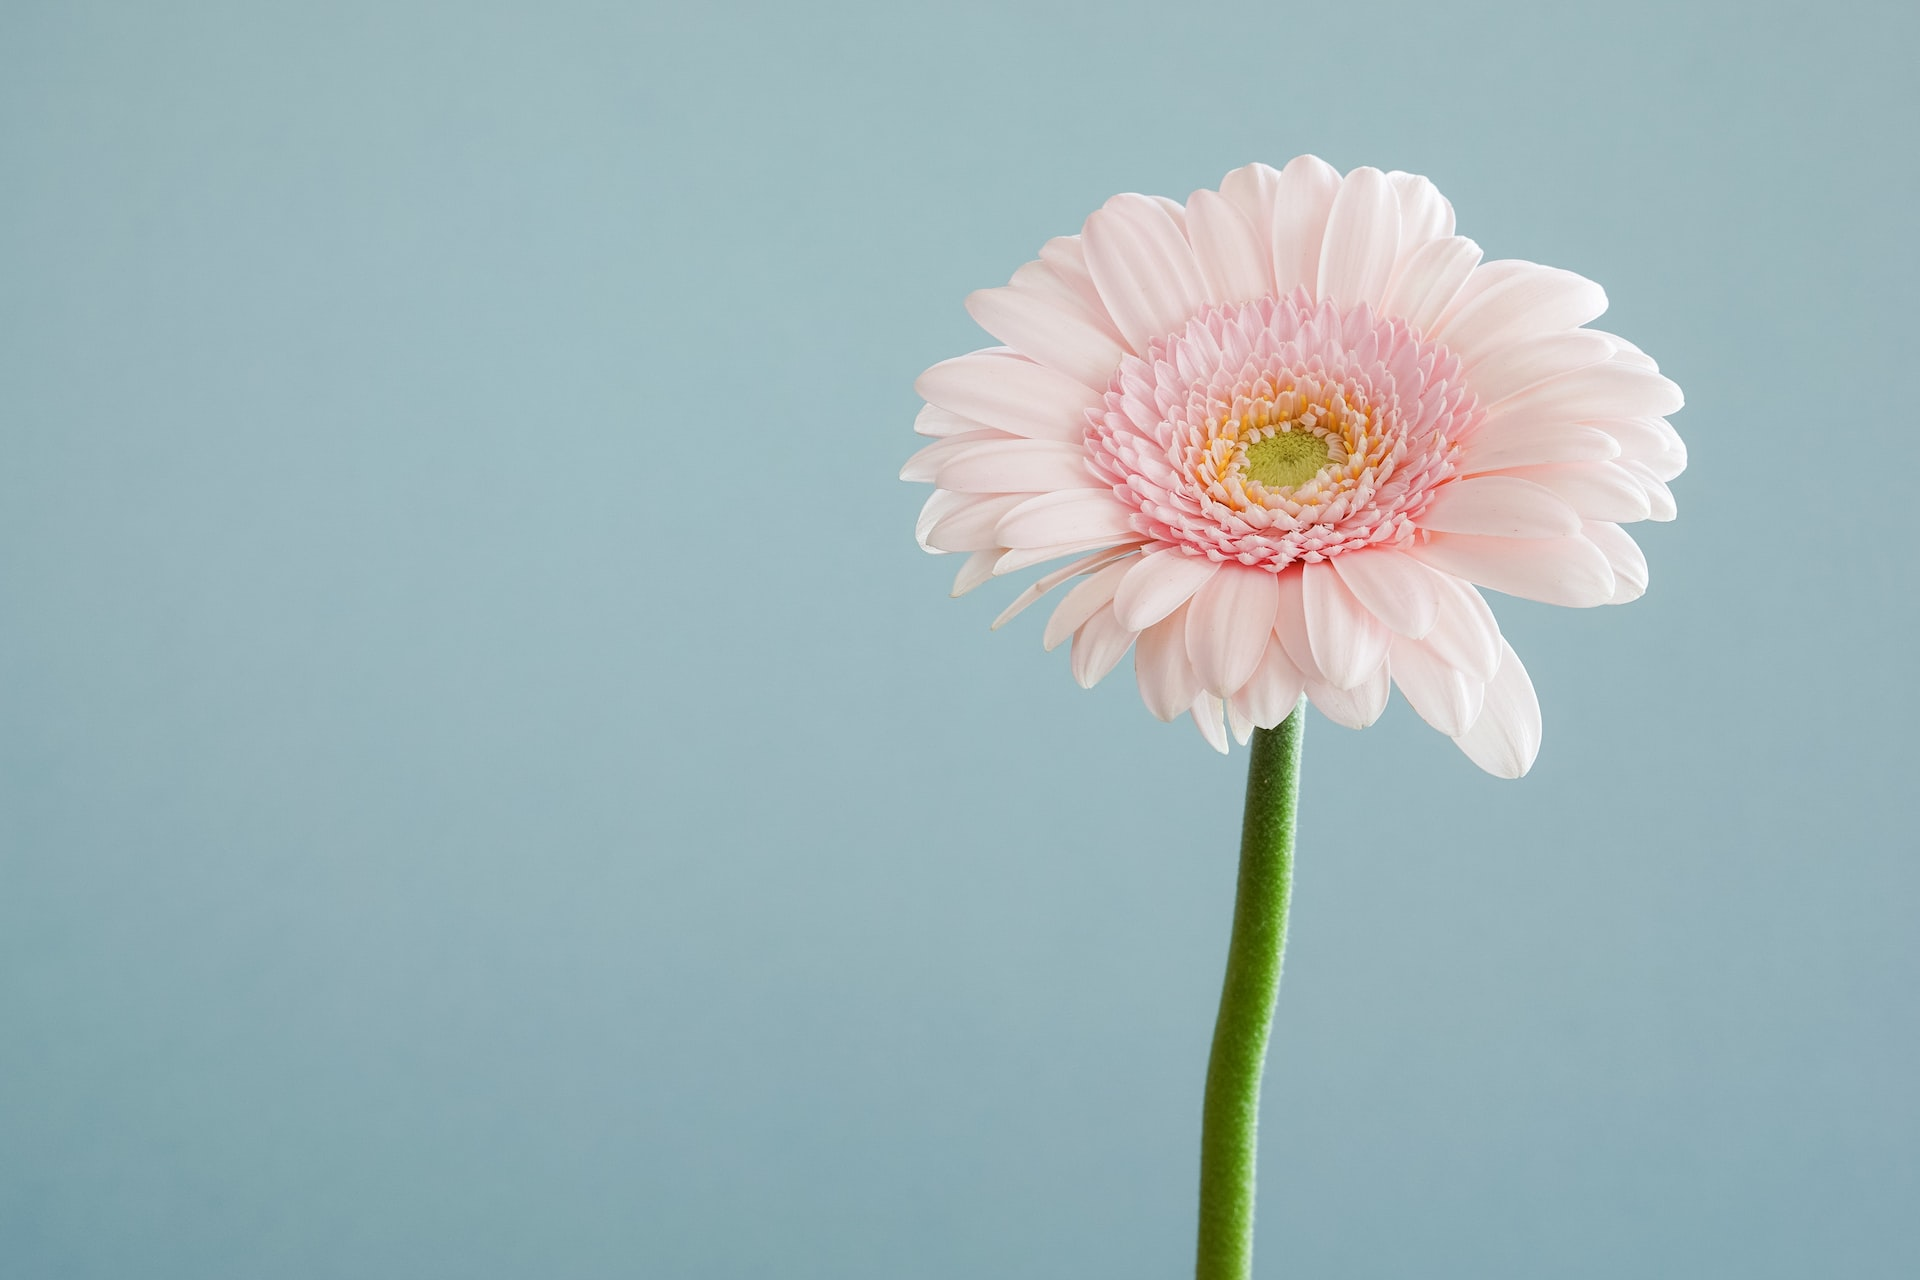
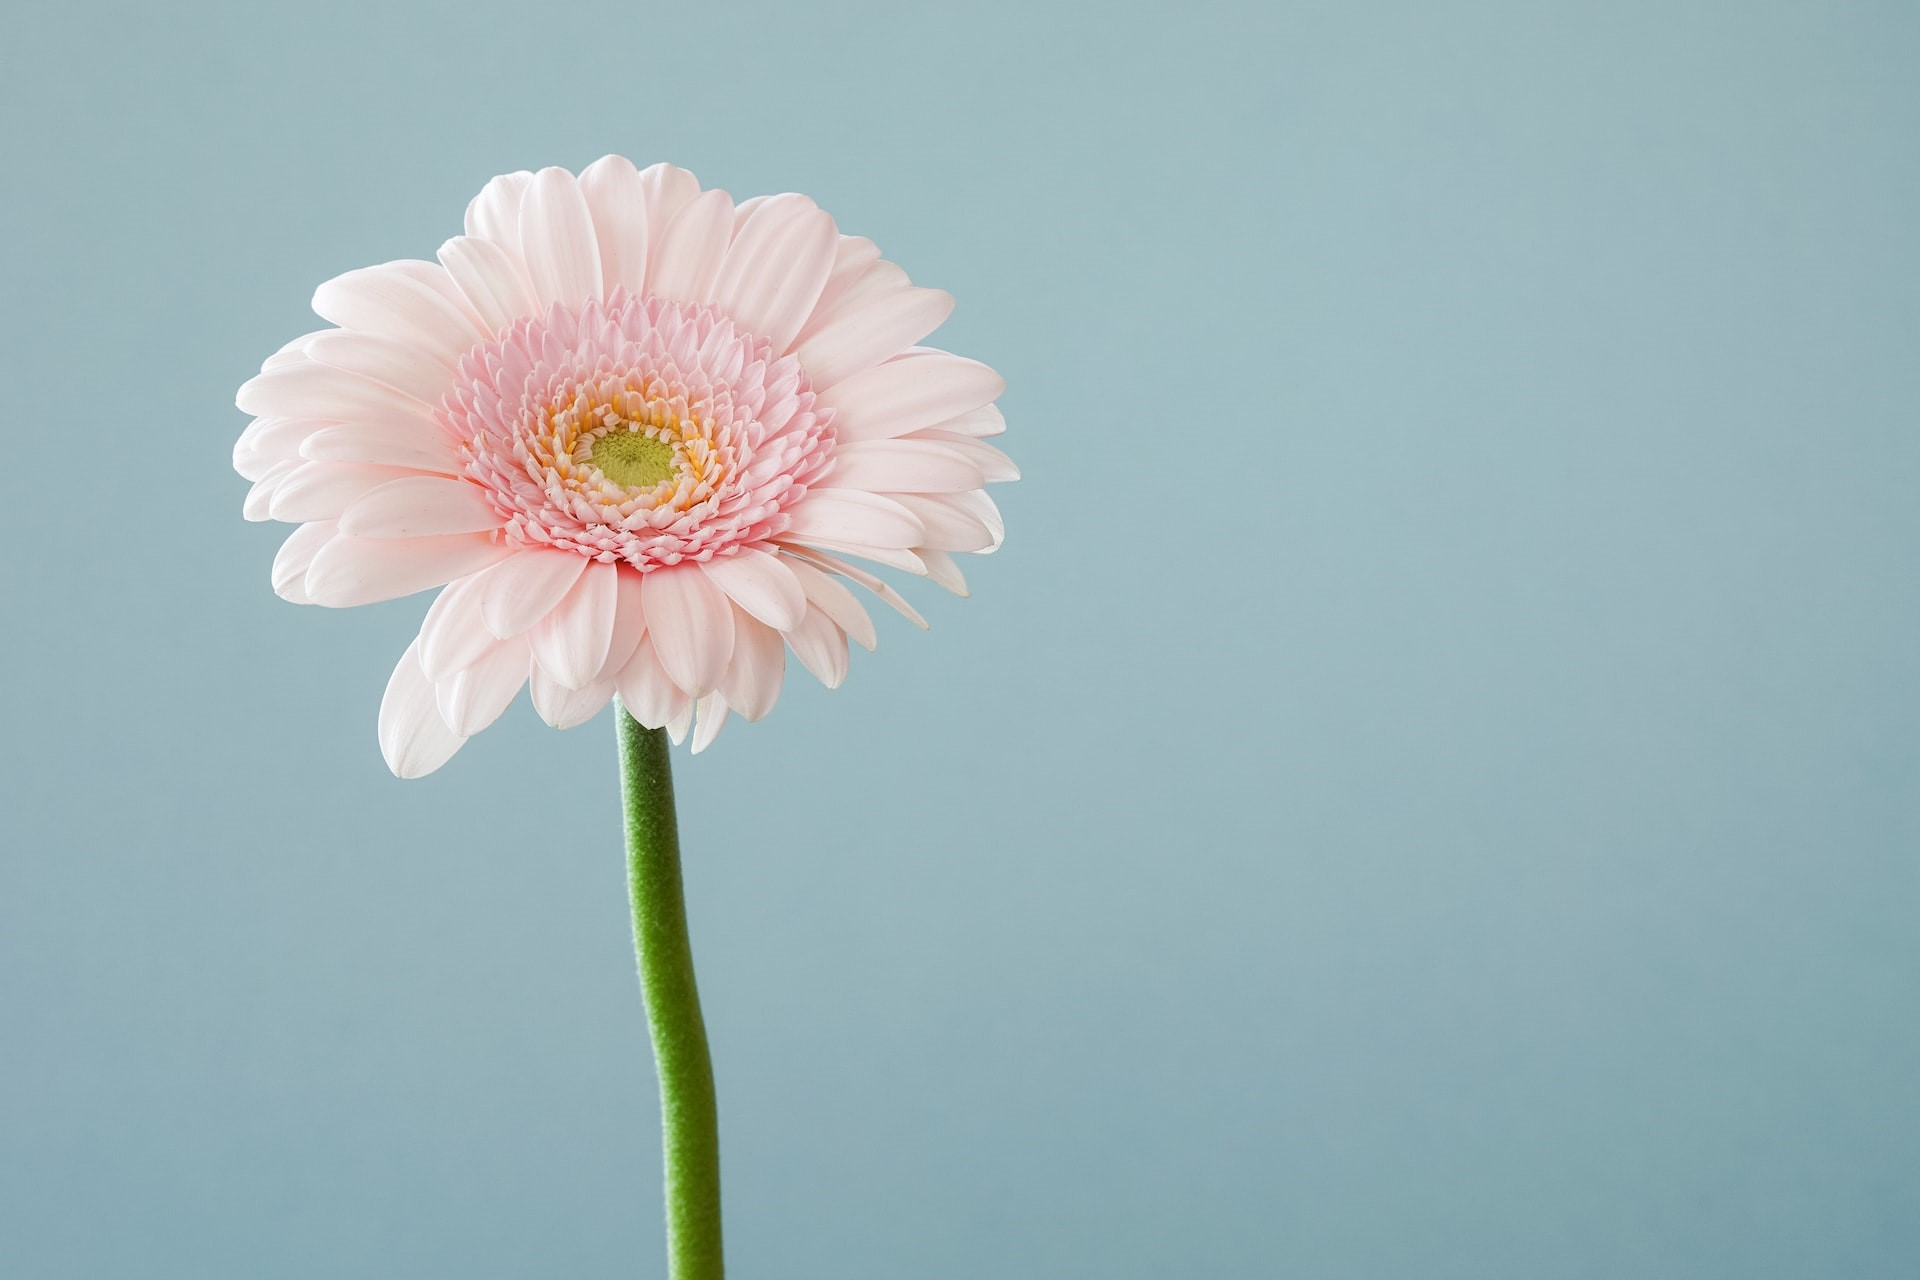
Home pages finished

Changed region(s): [[0.125, 0.125, 0.875, 1.0]]

diff --git a/src/components/ParallaxSection/Second/Second.jsx b/src/components/ParallaxSection/Second/Second.jsx
@@ -1,25 +1,26 @@
 import React from 'react'
 import { Parallax } from 'react-parallax'
-import flower from '../../../assets/flower.jpg'
+import './Second.css'
+import tree from '../../../assets/tree.jpg'
 
 const Second = () => {
     return (
-        <Parallax className='image' blur={0} bgImage={flower} strength={800} bgImageStyle={{ minHeight: "100vh", objectFit: 'cover' }}>
-            <div className='content'>
-                <div className='center'>
+        <Parallax className='image2' blur={0} bgImage={tree} strength={500} bgImageStyle={{ minHeight: "100vh", objectFit: 'cover' }}>
+            <div className='content2'>
+                <div className='center2'>
                     <h2 className='font-rockwell font-medium text-3xl lg:text-4xl text-gray100 tracking-wide'>
-                        Welcome to
+                        Explore
                     </h2>
                     <h2 className='font-rockwell font-semibold text-4xl lg:text-5xl text-gray100 tracking-widest mt-3'>
-                        gallerymojo.
+                        Photos
                     </h2>
                     <p className='font-montserrat text-lg lg:text-xl tracking-wide mt-5 text-gray100'>
-                        Explore and download your favourite images
-                        <br />in one place
+                        Explore and download breathtaking
+                        <br />photos.
                     </p>
                     <button
                         className='home-button font-rockwell font-bold text-lg lg:text-xl tracking-wider w-[150px] lg:w-[200px] h-[55px] lg:h-[60px] text-gray900 mt-5 bg-secondary2 hover:bg-secondary1 hover:drop-shadow-none'>
-                        Explore
+                        Discover
                     </button>
                 </div>
             </div>

diff --git a/src/components/ParallaxSection/First/First.jsx b/src/components/ParallaxSection/First/First.jsx
@@ -5,9 +5,9 @@ import bird from '../../../assets/bird.jpg'
 
 const First = () => {
   return (
-    <Parallax className='image' blur={0} bgImage={bird} strength={800} bgImageStyle={{ minHeight: "100vh", objectFit: 'cover' }}>
-        <div className='content'>
-          <div className='center'>
+    <Parallax className='image1' blur={0} bgImage={bird} strength={500} bgImageStyle={{ minHeight: "100vh", objectFit: 'cover' }}>
+        <div className='content1'>
+          <div className='center1'>
             <h2 className='font-rockwell font-medium text-3xl lg:text-4xl text-gray100 tracking-wide'>
               Welcome to
             </h2>
@@ -15,13 +15,9 @@ const First = () => {
               gallerymojo.
             </h2>
             <p className='font-montserrat text-lg lg:text-xl tracking-wide mt-5 text-gray100'>
-              Explore and download your favourite images
-              <br />in one place
+              The <em className='underline'>easiest way</em> to save and download <br/>
+               your favourite photos and vidoes.
             </p>
-            <button
-              className='home-button font-rockwell font-bold text-lg lg:text-xl tracking-wider w-[150px] lg:w-[200px] h-[55px] lg:h-[60px] text-gray900 mt-5 bg-secondary2 hover:bg-secondary1 hover:drop-shadow-none'>
-              Explore
-            </button>
           </div>
         </div>
       </Parallax>

diff --git a/src/components/ParallaxSection/Third/Third.jsx b/src/components/ParallaxSection/Third/Third.jsx
@@ -1,0 +1,30 @@
+import React from 'react'
+import './Third.css'
+import { Parallax } from 'react-parallax'
+import flower from '../../../assets/flower.jpg'
+
+const Third = () => {
+  return (
+    <Parallax className='image3' blur={0} bgImage={flower} strength={500} bgImageStyle={{ minHeight: "100vh", objectFit: 'cover' }}>
+            <div className='content3'>
+                <div className='center3'>
+                    <h2 className='font-rockwell font-medium text-3xl lg:text-4xl text-gray100 tracking-wide'>
+                        Explore
+                    </h2>
+                    <h2 className='font-rockwell font-semibold text-4xl lg:text-5xl text-gray100 tracking-widest mt-3'>
+                        Videos
+                    </h2>
+                    <p className='font-montserrat text-lg lg:text-xl tracking-wide mt-5 text-gray100'>
+                        Watch and download entertaining videos.
+                    </p>
+                    <button
+                        className='home-button font-rockwell font-bold text-lg lg:text-xl tracking-wider w-[150px] lg:w-[200px] h-[55px] lg:h-[60px] text-gray900 mt-5 bg-secondary2 hover:bg-secondary1 hover:drop-shadow-none'>
+                        Discover
+                    </button>
+                </div>
+            </div>
+        </Parallax>
+  )
+}
+
+export default Third

diff --git a/src/components/NavbarV1/NavbarV1.jsx b/src/components/NavbarV1/NavbarV1.jsx
@@ -42,7 +42,7 @@ const NavbarV1 = () => {
                 </div>
               </div>
             </label>
-            <ul tabIndex={0} className="dropdown-content menu p-2 shadow bg-primary2 w-52">
+            <ul tabIndex={0} className="dropdown-content menu p-2 shadow bg-primary2 w-52 z-50">
               <li><a href='/'>Your Profile</a></li>
               <li><a href='/'>Logout</a></li>
             </ul>
@@ -68,7 +68,7 @@ const NavbarV1 = () => {
 
       {/* Navigation */}
       <div className={isOpen
-        ? 'w-full h-screen bg-gray900 text-gray100 absolute top-[140px] lg:top-[90px] left-0 flex justify-center text-center ease-in duration-300 z-50'
+        ? 'w-full h-screen bg-gray900 text-gray100 absolute top-[140px] lg:top-[90px] left-0 flex justify-center text-center ease-in duration-300 z-40'
         : 'absolute top-[140px] lg:top-[90px] left-[-70%] h-screen ease-in-out duration-500'}>
         <ul className='mt-10 lg:mt-40'>
           <li className='navigation text-3xl lg:text-4xl py-10'>Home</li>

diff --git a/src/components/ParallaxSection/First/First.css b/src/components/ParallaxSection/First/First.css
@@ -1,23 +1,23 @@
-.image {
-    min-height: 100vh;
-    position: relative;
-  }
-  
-  .image .content {
-    padding: 10vw;
-    position: absolute;
-    width: 100%;
-    height: 100vh;
-  }
-  
-  .center {
-    margin: 0;
-    position: absolute;
-    top: 50%;
-    transform: translateY(-50%);
-  }
-  
-  .home-button {
-    filter: drop-shadow(0px 4px 4px rgba(0, 0, 0, 0.25))
-      drop-shadow(5px 8px 10px rgba(0, 0, 0, 0.6));
-  }
+.image1 {
+  min-height: 100vh;
+  position: relative;
+}
+
+.image1 .content1 {
+  padding: 10vw;
+  position: absolute;
+  width: 100%;
+  height: 100vh;
+}
+
+.center1 {
+  margin: 0;
+  position: absolute;
+  top: 50%;
+  transform: translateY(-50%);
+}
+
+.home-button {
+  filter: drop-shadow(0px 4px 4px rgba(0, 0, 0, 0.25))
+    drop-shadow(5px 8px 10px rgba(0, 0, 0, 0.6));
+}

diff --git a/src/pages/NotFound/NotFound.jsx b/src/pages/NotFound/NotFound.jsx
@@ -1,0 +1,21 @@
+import React from 'react'
+import { HiOutlineHome } from "react-icons/hi";
+import notfound from '../../assets/NotFound.svg'
+import './NotFound.css'
+
+const NotFound = () => {
+    return (
+        <div className='container mx-auto border-t-2 border-gray100'>
+            <div className='notfound-center text-center'>
+                <img src={notfound} alt="notfound svg" />
+                <button className="font-montserrat py-2 px-8 lg:py-3 lg:px-9  inline-flex items-center bg-primary1 hover:bg-primary2 hover:shadow-[4px_4px_4px_rgba(0,0,0,0.3)]">
+                    <span className='font-bold text-sm lg:text-lg'>Go Home</span>
+                    <HiOutlineHome className="w-4 h-4 ml-2" />
+                </button>
+            </div>
+        </div>
+
+    )
+}
+
+export default NotFound

diff --git a/src/pages/Home/Home.jsx b/src/pages/Home/Home.jsx
@@ -1,5 +1,5 @@
 import React from 'react'
-import { First, Second, TextBox } from '../../components'
+import { First, Second, Third, TextBox } from '../../components'
 
 const Home = () => {
   return (
@@ -10,8 +10,16 @@ const Home = () => {
       </TextBox>
       <Second />
       <TextBox>
-        The best free photos and images <br /> shared by talented photographersasdfasfs.
+        <p>
+          <q>
+            I don’t trust words. I trust pictures.
+          </q><br />
+          <b>
+            — Gilles Peress
+          </b>
+        </p>
       </TextBox>
+      <Third />
     </div >
   )
 }

diff --git a/src/App.js b/src/App.js
@@ -1,6 +1,6 @@
 import React from "react";
 import { Routes, Route } from "react-router-dom";
-import { Home } from "./pages";
+import { Home, NotFound } from "./pages";
 import { NavbarV1, NavbarV2 } from "./components";
 
 function App() {
@@ -15,6 +15,7 @@ function App() {
       }
       <Routes>
         <Route path="/" element={<Home />} />
+        <Route path="*" element={<NotFound />} />
       </Routes>
     </>
   );

diff --git a/src/components/ParallaxSection/Second/Second.css b/src/components/ParallaxSection/Second/Second.css
@@ -1,0 +1,24 @@
+.image2 {
+  min-height: 100vh;
+  position: relative;
+}
+
+.image2 .content2 {
+  padding: 10vw;
+  position: absolute;
+  width: 100%;
+  height: 100vh;
+}
+
+.center2 {
+  position: absolute;
+  text-align: center;
+  top: 50%;
+  left: 50%;
+  transform: translate(-50%, -50%);
+}
+
+.home-button {
+  filter: drop-shadow(0px 4px 4px rgba(0, 0, 0, 0.25))
+    drop-shadow(5px 8px 10px rgba(0, 0, 0, 0.6));
+}

diff --git a/src/components/ParallaxSection/Third/Third.css b/src/components/ParallaxSection/Third/Third.css
@@ -1,0 +1,24 @@
+.image3 {
+  min-height: 100vh;
+  position: relative;
+}
+
+.image3 .content3 {
+  padding: 10vw;
+  position: absolute;
+  width: 100%;
+  height: 100vh;
+}
+
+.center3 {
+  position: absolute;
+  text-align: right;
+  top: 50%;
+  left: 80%;
+  transform: translate(-50%, -80%);
+}
+
+.home-button {
+  filter: drop-shadow(0px 4px 4px rgba(0, 0, 0, 0.25))
+    drop-shadow(5px 8px 10px rgba(0, 0, 0, 0.6));
+}

diff --git a/src/components/index.js b/src/components/index.js
@@ -2,4 +2,5 @@ export {default as NavbarV1} from './NavbarV1/NavbarV1'
 export {default as NavbarV2} from './NavbarV2/NavbarV2'
 export {default as First} from './ParallaxSection/First/First'
 export {default as Second} from './ParallaxSection/Second/Second'
+export {default as Third} from './ParallaxSection/Third/Third'
 export {default as TextBox} from './ParallaxSection/TextBox/TextBox'

diff --git a/src/pages/NotFound/NotFound.css b/src/pages/NotFound/NotFound.css
@@ -1,0 +1,17 @@
+.container {
+  width: 100%;
+  min-height: 100vh;
+  position: relative;
+}
+
+.notfound-center {
+  position: absolute;
+  text-align: center;
+  top: 50%;
+  left: 50%;
+  transform: translate(-50%, -50%);
+}
+
+.notfound-button {
+  box-shadow: 0px 4px 4px rgba(0, 0, 0, 0.25), 2px 4px 2px rgba(0, 0, 0, 0.25);
+}
